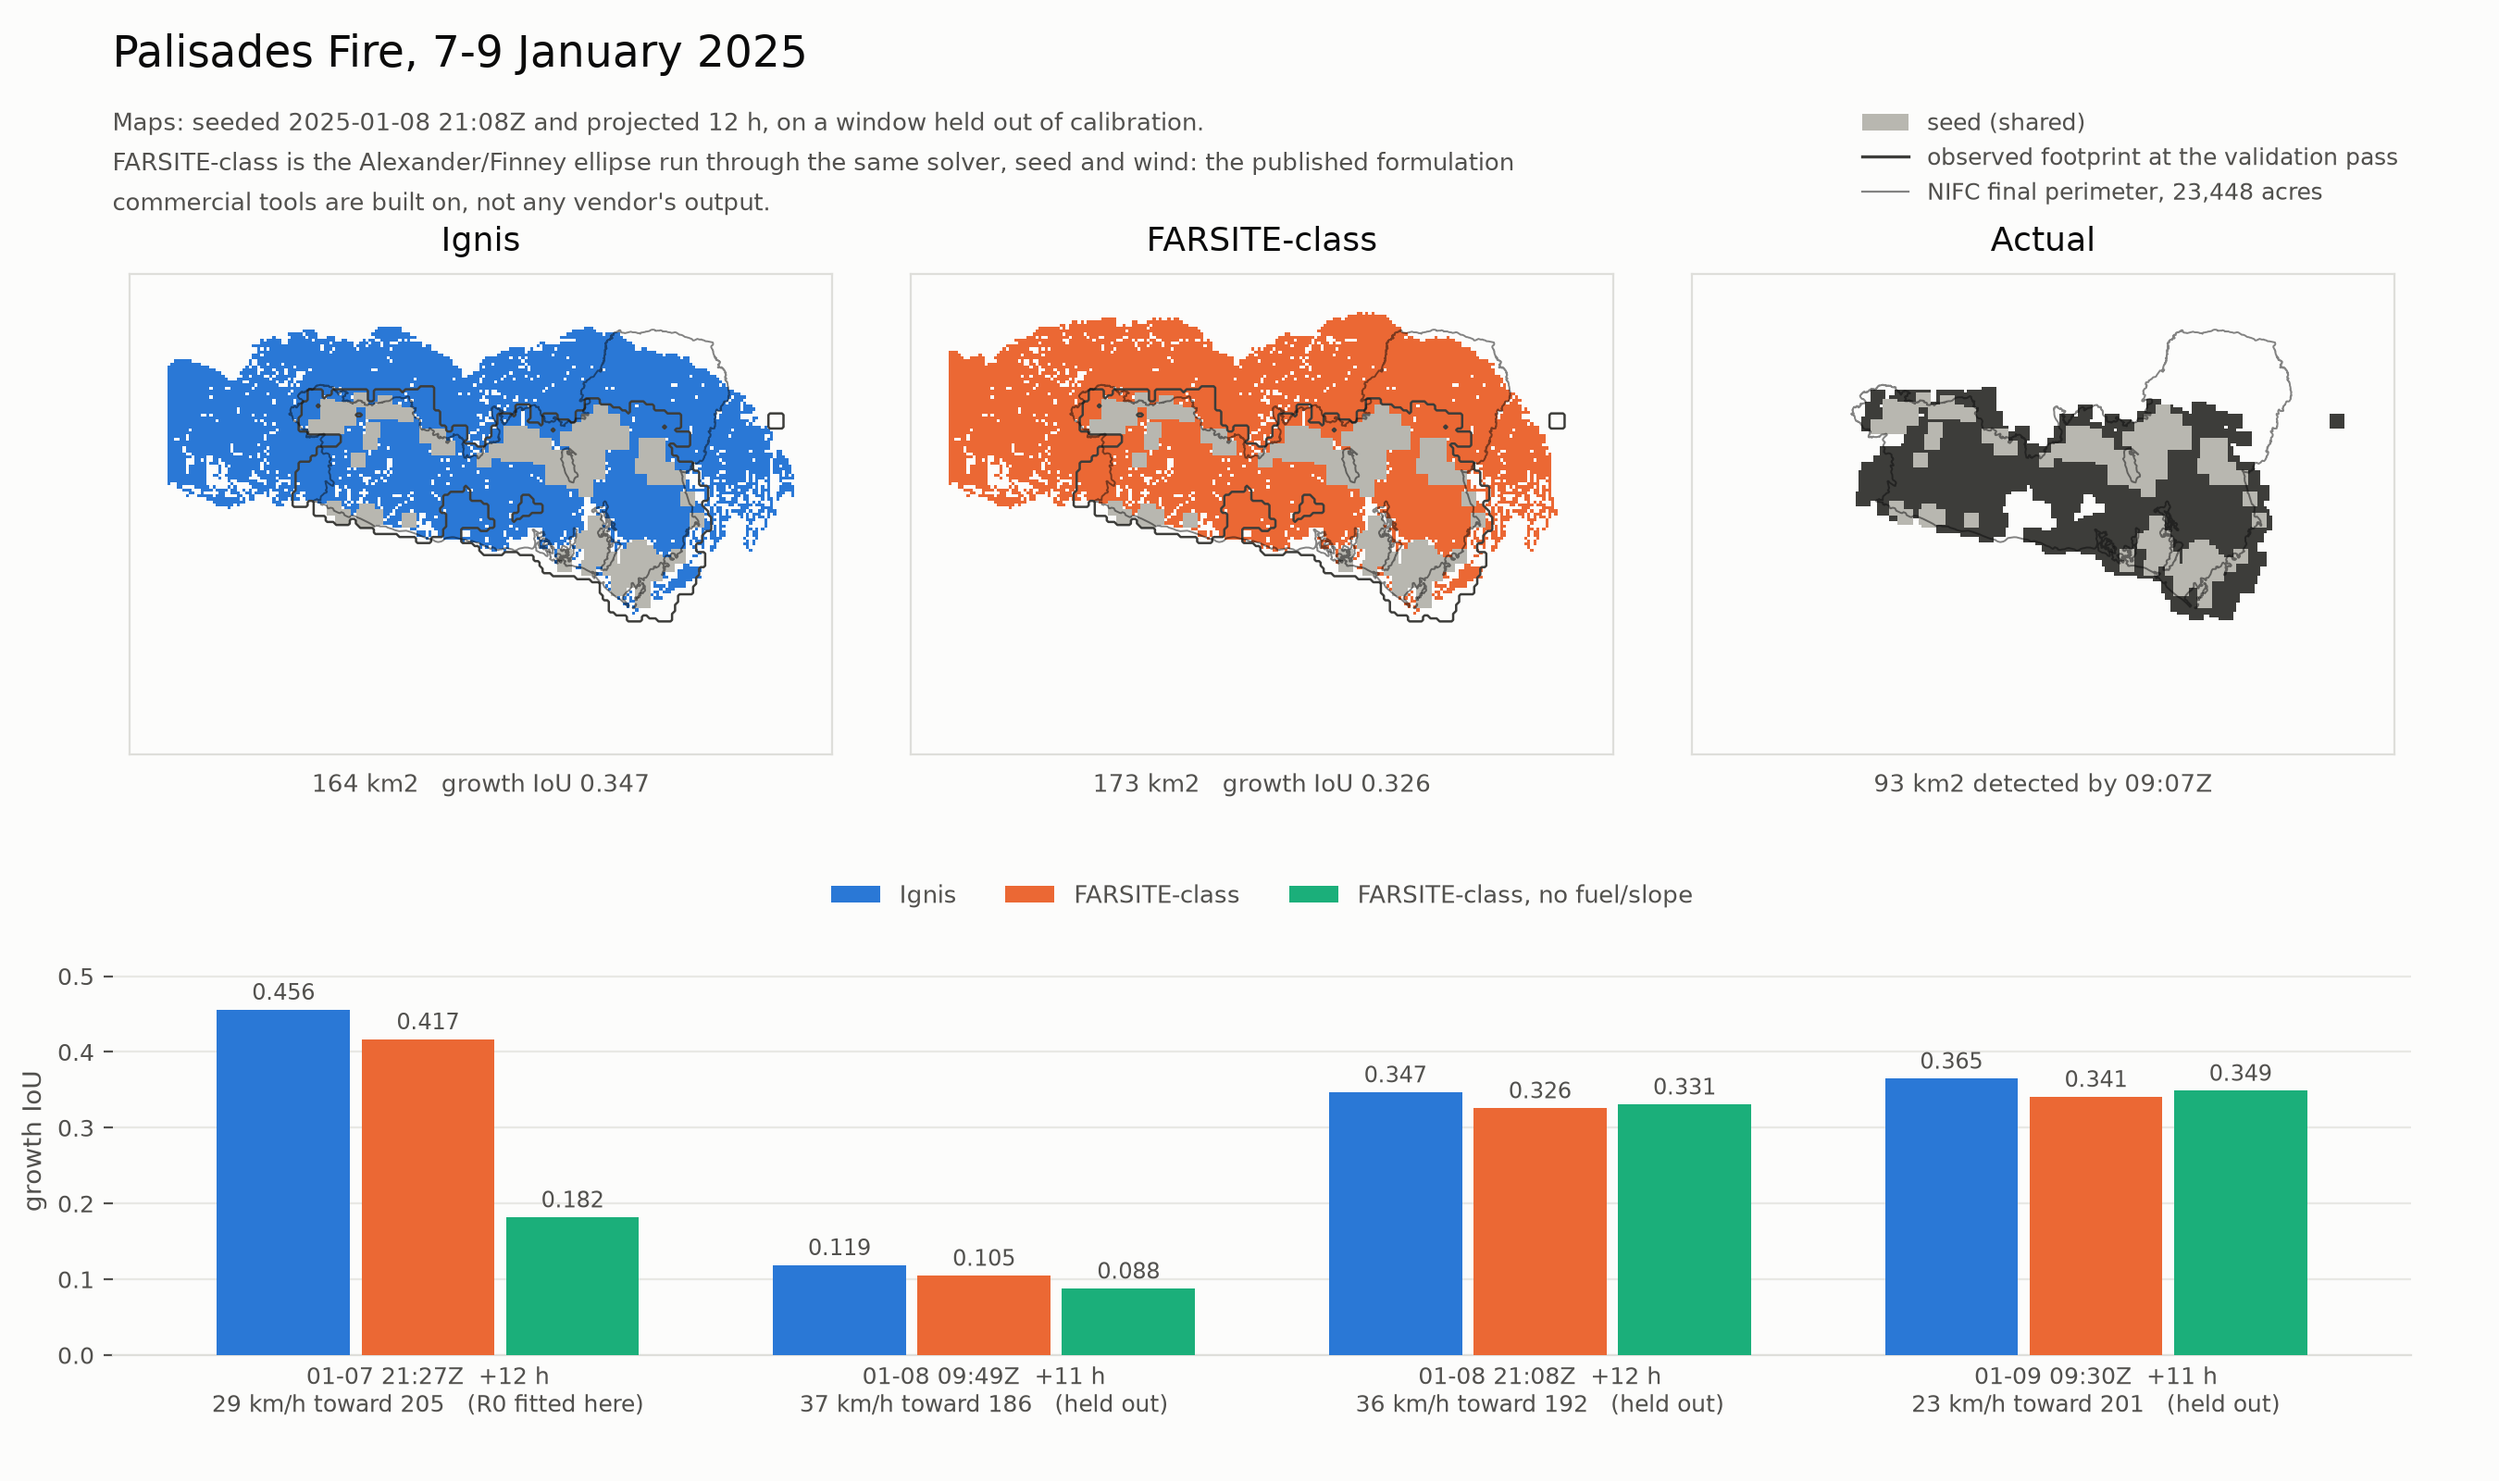
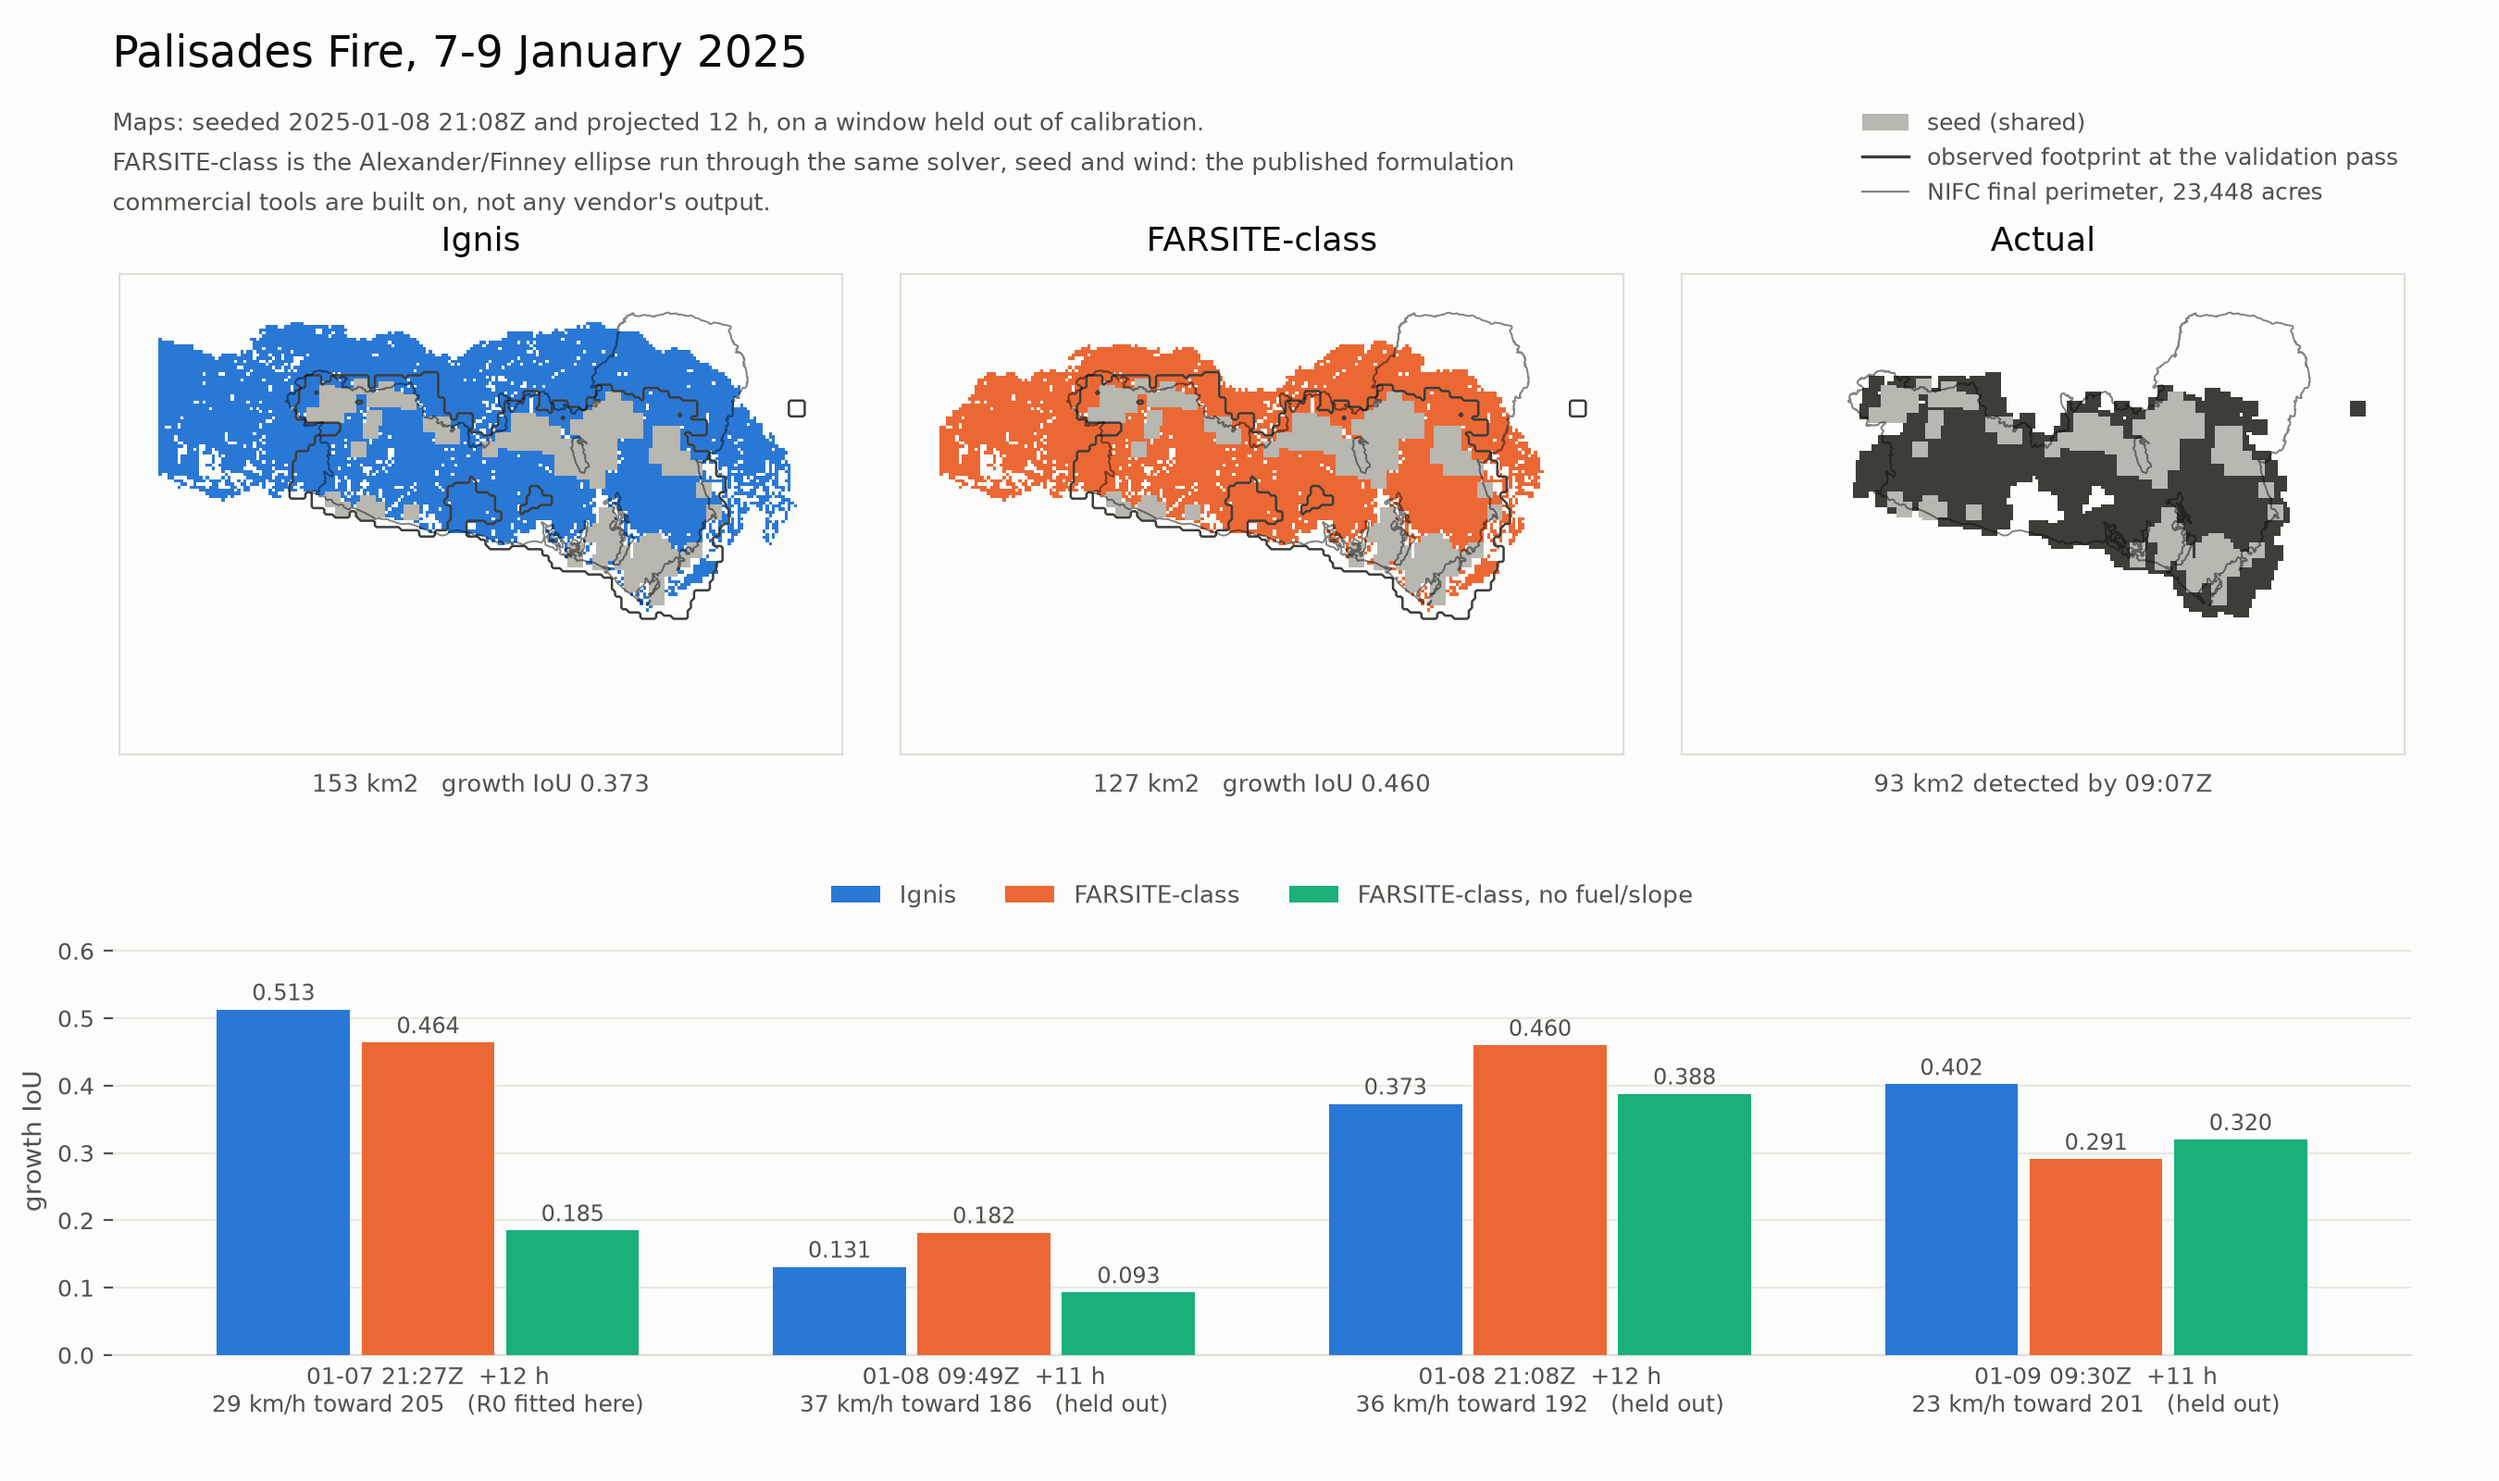
Regenerate the Palisades comparison, which no longer favours Ignis
Rerun against the fixed pipeline. The result changed, and not in our favour:
on the three held-out windows Ignis now wins one and loses two to the
FARSITE-class ellipse, where the old fixture had it winning all four.

  growth IoU        Ignis   FARSITE-class
  fit,   +12.0 h    0.513   0.464
  held,  +10.9 h    0.131   0.182   <- ellipse
  held,  +12.0 h    0.373   0.460   <- ellipse
  held,  +10.9 h    0.402   0.291

Previously 0.456/0.417, 0.119/0.105, 0.347/0.326, 0.365/0.341 -- Ignis ahead
everywhere by a similar margin, which is exactly the shape a frozen baseline
produces. The ellipse was built once from the calibration window's wind and
reused for all four, so on every held-out window it was pointing at the wrong
weather while Ignis had the right one. Fixing that removed the advantage.

Fitted R0 halved as well, 96.17 -> 41.55 m/min for Ignis, because a 12 h
window is now simulated for 12 h rather than 6. A rate fitted to burn the
observed area in half the real time had to be twice too fast.

Nothing here says the engine is worse than it was; the model is unchanged
except for the north correction. It says the comparison was measuring the
baseline's handicap, and that the "beats the industry-standard formulation"
line cannot be used as it stands. The honest version is that on twelve-hour
windows the two trade wins and Ignis's fuel and slope terms clearly beat the
homogeneous ellipse, which is still a real result.
[…]

diff --git a/backend/fire/MAGI.md b/backend/fire/MAGI.md
@@ -61,9 +61,16 @@ window where shape beats size is Camp +11.4 h, where CASPER-3 predicts less than
 MAJORITY, BALTHASAR-2 and ADVISORY and still wins — the ablation's wind-alone
 result showing up in the ensemble.
 
-So the ensemble is kept for the **uncertainty band, not for accuracy**. Do not
-re-tune the doctrines to win that table; that is fitting three models to two
-fires, which is the mistake `validate.py` exists to catch.
+So the ensemble is kept for the **disagreement band, not for accuracy**. Call
+it disagreement, not uncertainty: three settings of one kernel sharing a seed,
+a wind field, a grid and a solver can only disagree about what they were set
+up to disagree about, and nothing here is calibrated against observed outcome
+frequency. "The models disagree beyond here" is supportable. "We are 90% sure
+the fire stays inside CONFIRMED" is not, and no wording in a pitch should
+imply it.
+
+Do not re-tune the doctrines to win that table either; that is fitting three
+models to two fires, which is the mistake `validate.py` exists to catch.
 
 ## Non-obvious facts that cost time to establish
 
@@ -101,8 +108,10 @@ fires, which is the mistake `validate.py` exists to catch.
    agree for structural reasons and the ADVISORY-to-CONFIRMED gap is narrower
    than the truth. Balthasar is the one to cut: its gains only increase rate,
    so its arrival times sit pointwise below Melchior's and it can never set
-   CONFIRMED (see below). `rothermel.py` is independently derived, carries no
-   fitted R0, and is validated against the BehavePlus core to a constant 1.029.
+   CONFIRMED (see below). `rothermel.py` is independently derived and carries
+   no fitted R0, which is the property that matters here. Its BehavePlus
+   agreement figure has been withdrawn -- it was measured with mineral damping
+   omitted, on reasoning the reference source disproves; see FINDINGS.md.
    Not done yet -- it needs a per-cell rate path, since Rothermel gives a rate
    per fuel code where `spread.py` takes one global R0. Losing Balthasar also
    loses the protective upper bound; Rothermel may or may not subsume it, and

diff --git a/backend/fire/FINDINGS.md b/backend/fire/FINDINGS.md
@@ -257,11 +257,30 @@ the implementation, never the physics.
 
 ## Ground truth, and why the absolute numbers are low
 
+> **Every IoU recorded in this document predates the 2026-09-20 audit and has
+> not been re-measured.** Three fixes change all of them: the truth mask used
+> to stop short of the validation pass across UTC midnight, a 12 h window was
+> scored against a 6 h simulation, and grid north was compared against true
+> north. Re-fit and re-run before quoting any number below.
+
 Truth is the union of FIRMS detections up to the validation time, not a NIFC
-perimeter. A detection is an *actively burning* pixel, so cells that burned and
-cooled drop out and the observed footprint understates burned area. Absolute
-IoU is therefore pessimistic; the ablation is the honest comparison because the
-bias applies to every configuration equally.
+perimeter. A detection is an *actively burning* pixel.
+
+The usual statement of the limitation -- that cells which burned and cooled
+drop out -- is not quite right here, and saying it that way oversells the
+problem in one direction while hiding a real one. `validate.observed()`
+accumulates every detection up to the validation time, so a cell that burned
+and cooled is still in the mask that caught it burning. What is genuinely
+missed is fire that never coincided with an overpass at all. The footprint
+still understates burned area and absolute IoU is still pessimistic; the
+reason is coverage, not cooling.
+
+The ablation is a FAIR comparison -- every configuration meets the same
+imperfect mask -- but that is not the same as an unbiased one. A truth mask
+built from 375 m detection pixels can systematically favour one footprint
+shape over another, and the configurations differ precisely in shape. Shared
+bias makes the contest even; it does not prove the winner would still win
+against a perfect mask.
 
 ## Open, deliberately not started
 
